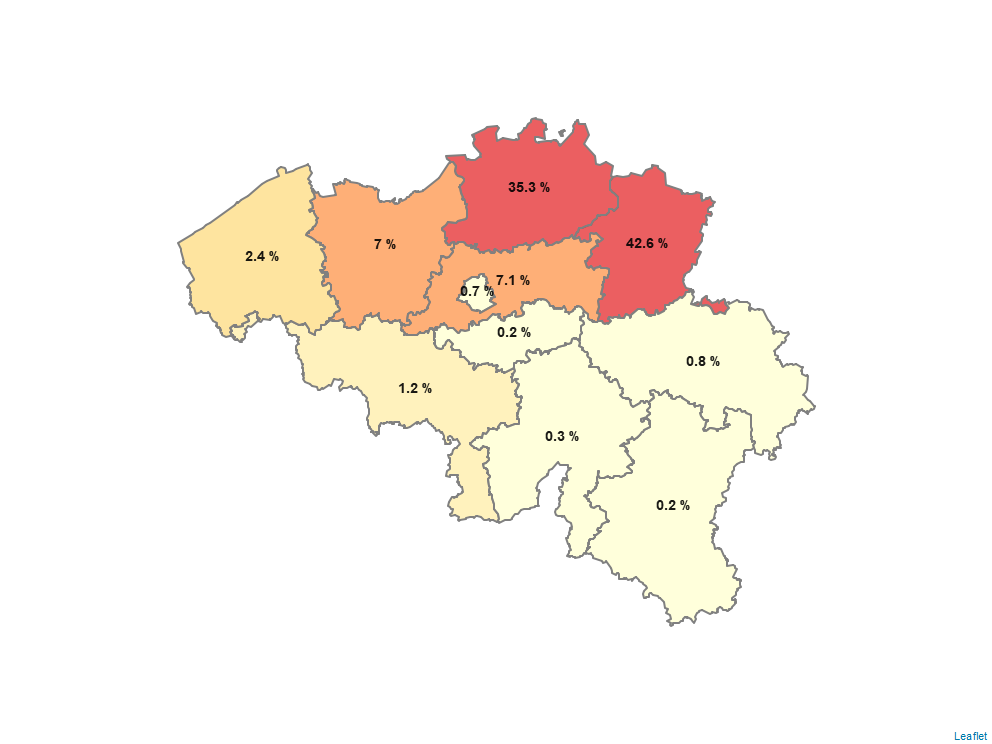
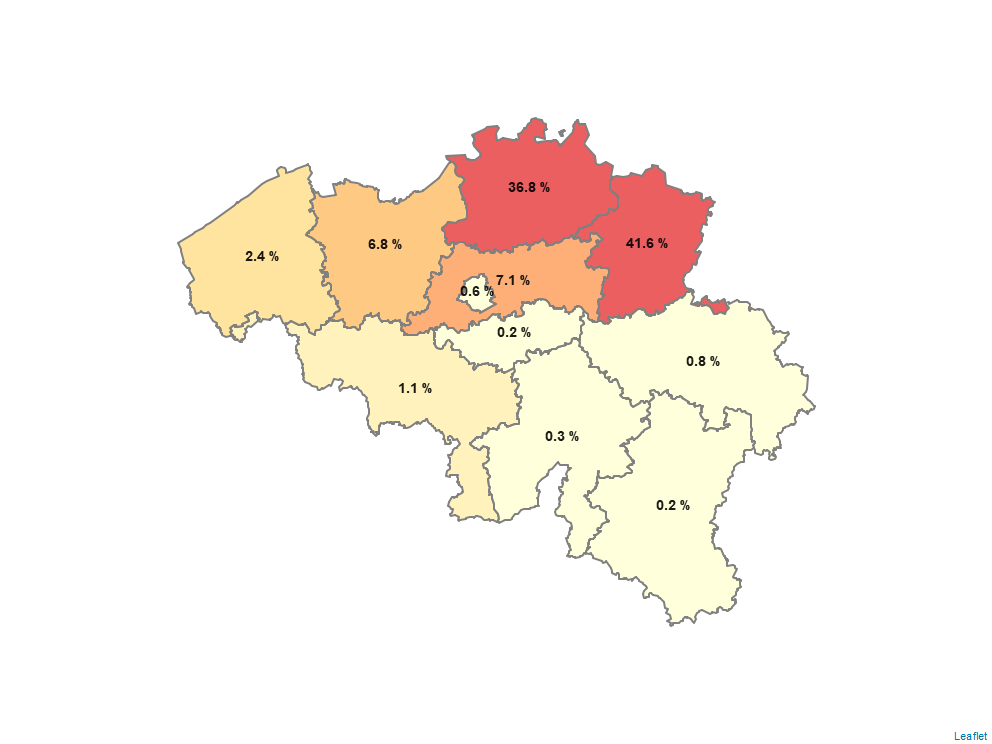
update results 8/6

Changed region(s): [[0.3125, 0.2164, 0.4688, 0.4328]]

diff --git a/public/assets/locales/nl-be/markdowns/results-0.md b/public/assets/locales/nl-be/markdowns/results-0.md
@@ -1,4 +1,4 @@
-`Deze pagina is voor het laatst aangepast op 01.jun.2021 12:00.`
+`Deze pagina is voor het laatst aangepast op 08.jun.2021 10:00.`
 <br />
 
 Op deze pagina vindt u de actuele resultaten van Infectieradar.
@@ -7,7 +7,7 @@ Op deze pagina vindt u de actuele resultaten van Infectieradar.
 
 ## Achtergrond Informatie
 
-Op 1 juni 2021 hadden we 589 deelnemers. 53,7% van de deelnemers is vrouw, en 46,3% is man. Een meerderheid van deelnemers (83.9%) rapporteerden dat ze nog geen Covid-19 hebben gehad. 4.8% van de deelnemers hebben in het verleden positief getest op Covid-19. 11.4% van de deelnemers hebben een sterk vermoeden dat ze Covid-19 hebben gehad.
+Op 8 juni 2021 hadden we 622 deelnemers. 53,7% van de deelnemers is vrouw, en 46,3% is man. Een meerderheid van deelnemers (83.8%) rapporteerden dat ze nog geen Covid-19 hebben gehad. 4.8% van de deelnemers hebben in het verleden positief getest op Covid-19. 11.4% van de deelnemers hebben een sterk vermoeden dat ze Covid-19 hebben gehad.
 <br />
 
 ### Leeftijdsverdeling
@@ -25,7 +25,7 @@ Op 1 juni 2021 hadden we 589 deelnemers. 53,7% van de deelnemers is vrouw, en 46
 
 ## Wekelijkse Symptomen
 
-Op 1 juni 2021 hadden we 3285 ingevulde wekelijkse symptomen vragenlijsten van 545 deelnemers. In 76.9% van de vragenlijsten werd gerapporteerd dat er *geen symptomen* waren.
+Op 8 juni 2021 hadden we 3679 ingevulde wekelijkse symptomen vragenlijsten van 573 deelnemers. In 77.2% van de vragenlijsten werd gerapporteerd dat er *geen symptomen* waren.
 
 ### Gerapporteerde symptomen
 In de figuur hieronder geven we procentueel aan hoe vaak een bepaald symptoom is gerapporteerd in de vragenlijsten waarbij minstens één symptoom werd doorgegeven.

diff --git a/public/assets/locales/fr-be/markdowns/results-0.md b/public/assets/locales/fr-be/markdowns/results-0.md
@@ -1,13 +1,13 @@
-`Dernière modification de cette page le 01.juin.2021 12:00.`
+`Dernière modification de cette page le 08.juin.2021 10:00.`
 <br />
 
-On this page you will be able to see the latest results from the data collected by Infectieradar.be.
+OOn this page you will be able to see the latest results from the data collected by Infectieradar.be.
 <br />
 
 
 ## Background Information
 
-On June 1, 2021 we had 589 participants. 53.7% of the participants are female, and 46.3% male. The majority of the participants (83.9%) reported having no previous Covid-19 episode. 4.8% of the participants had a positive Covid-19 test in the past. 11.4% of the participants think they had a previous Covid-19 episode.
+On June 8, 2021 we had 622 participants. 53.7% of the participants are female, and 46.3% male. The majority of the participants (83.8%) reported having no previous Covid-19 episode. 4.8% of the participants had a positive Covid-19 test in the past. 11.4% of the participants think they had a previous Covid-19 episode.
 <br />
 
 ### Age distribution
@@ -25,7 +25,7 @@ On June 1, 2021 we had 589 participants. 53.7% of the participants are female, a
 
 ## Weekly Symptoms
 
-On June 1, 2021 we had 3285 completed weekly symptom questionnaires from 545 participants. In 76,9% of the symptom questionnaires it was reported that there were *no symptoms*.
+On June 8, 2021 we had 3679 completed weekly symptom questionnaires from 545 participants. In 77.2% of the symptom questionnaires it was reported that there were *no symptoms*.
 
 ### Reported symptoms
 

diff --git a/public/assets/locales/de-be/markdowns/results-0.md b/public/assets/locales/de-be/markdowns/results-0.md
@@ -1,4 +1,4 @@
-`Diese Seite wurde zum letzten Mal angepasst am 01.Jun.2021 12:00.`
+`Diese Seite wurde zum letzten Mal angepasst am 08.Jun.2021 10:00.`
 <br />
 
 On this page you will be able to see the latest results from the data collected by Infectieradar.be.
@@ -7,7 +7,7 @@ On this page you will be able to see the latest results from the data collected 
 
 ## Background Information
 
-On June 1, 2021 we had 589 participants. 53.7% of the participants are female, and 46.3% male. The majority of the participants (83.9%) reported having no previous Covid-19 episode. 4.8% of the participants had a positive Covid-19 test in the past. 11.4% of the participants think they had a previous Covid-19 episode.
+On June 8, 2021 we had 622 participants. 53.7% of the participants are female, and 46.3% male. The majority of the participants (83.8%) reported having no previous Covid-19 episode. 4.8% of the participants had a positive Covid-19 test in the past. 11.4% of the participants think they had a previous Covid-19 episode.
 <br />
 
 ### Age distribution
@@ -25,7 +25,7 @@ On June 1, 2021 we had 589 participants. 53.7% of the participants are female, a
 
 ## Weekly Symptoms
 
-On June 1, 2021 we had 3285 completed weekly symptom questionnaires from 545 participants. In 76,9% of the symptom questionnaires it was reported that there were *no symptoms*.
+On June 8, 2021 we had 3679 completed weekly symptom questionnaires from 545 participants. In 77.2% of the symptom questionnaires it was reported that there were *no symptoms*.
 
 ### Reported symptoms
 

diff --git a/public/assets/locales/en/markdowns/results-0.md b/public/assets/locales/en/markdowns/results-0.md
@@ -1,4 +1,4 @@
-`This page has been last updated at 01.jun.2021 12:00.`
+`This page has been last updated at 08.jun.2021 10:00.`
 <br />
 
 On this page you will be able to see the latest results from the data collected by Infectieradar.be.
@@ -7,7 +7,7 @@ On this page you will be able to see the latest results from the data collected 
 
 ## Background Information
 
-On June 1, 2021 we had 589 participants. 53.7% of the participants are female, and 46.3% male. The majority of the participants (83.9%) reported having no previous Covid-19 episode. 4.8% of the participants had a positive Covid-19 test in the past. 11.4% of the participants think they had a previous Covid-19 episode.
+On June 8, 2021 we had 622 participants. 53.7% of the participants are female, and 46.3% male. The majority of the participants (83.8%) reported having no previous Covid-19 episode. 4.8% of the participants had a positive Covid-19 test in the past. 11.4% of the participants think they had a previous Covid-19 episode.
 <br />
 
 ### Age distribution
@@ -25,7 +25,7 @@ On June 1, 2021 we had 589 participants. 53.7% of the participants are female, a
 
 ## Weekly Symptoms
 
-On June 1, 2021 we had 3285 completed weekly symptom questionnaires from 545 participants. In 76,9% of the symptom questionnaires it was reported that there were *no symptoms*.
+On June 8, 2021 we had 3679 completed weekly symptom questionnaires from 545 participants. In 77.2% of the symptom questionnaires it was reported that there were *no symptoms*.
 
 ### Reported symptoms
 
